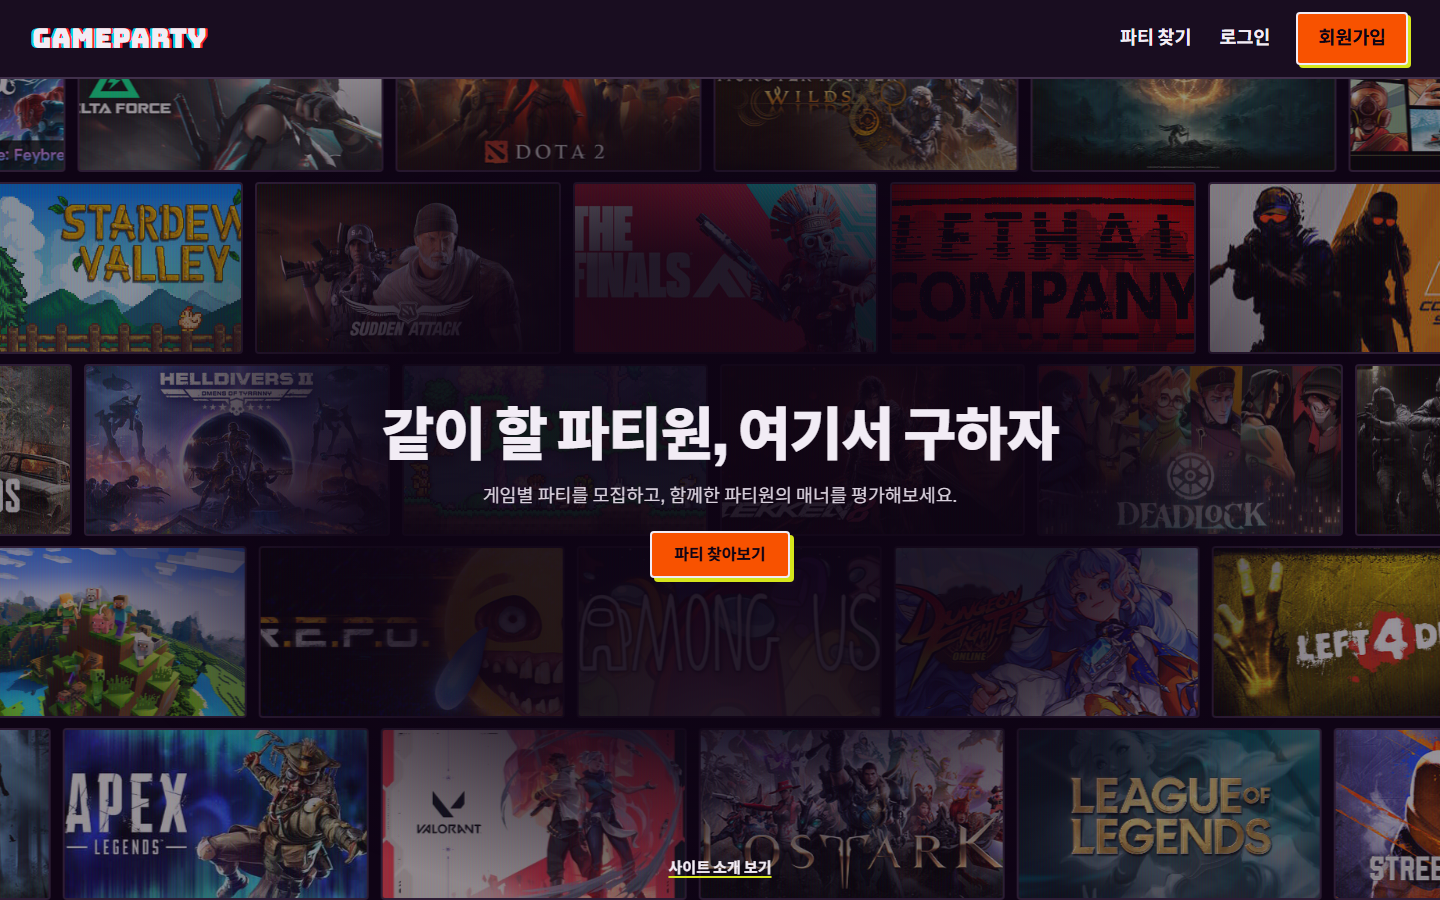
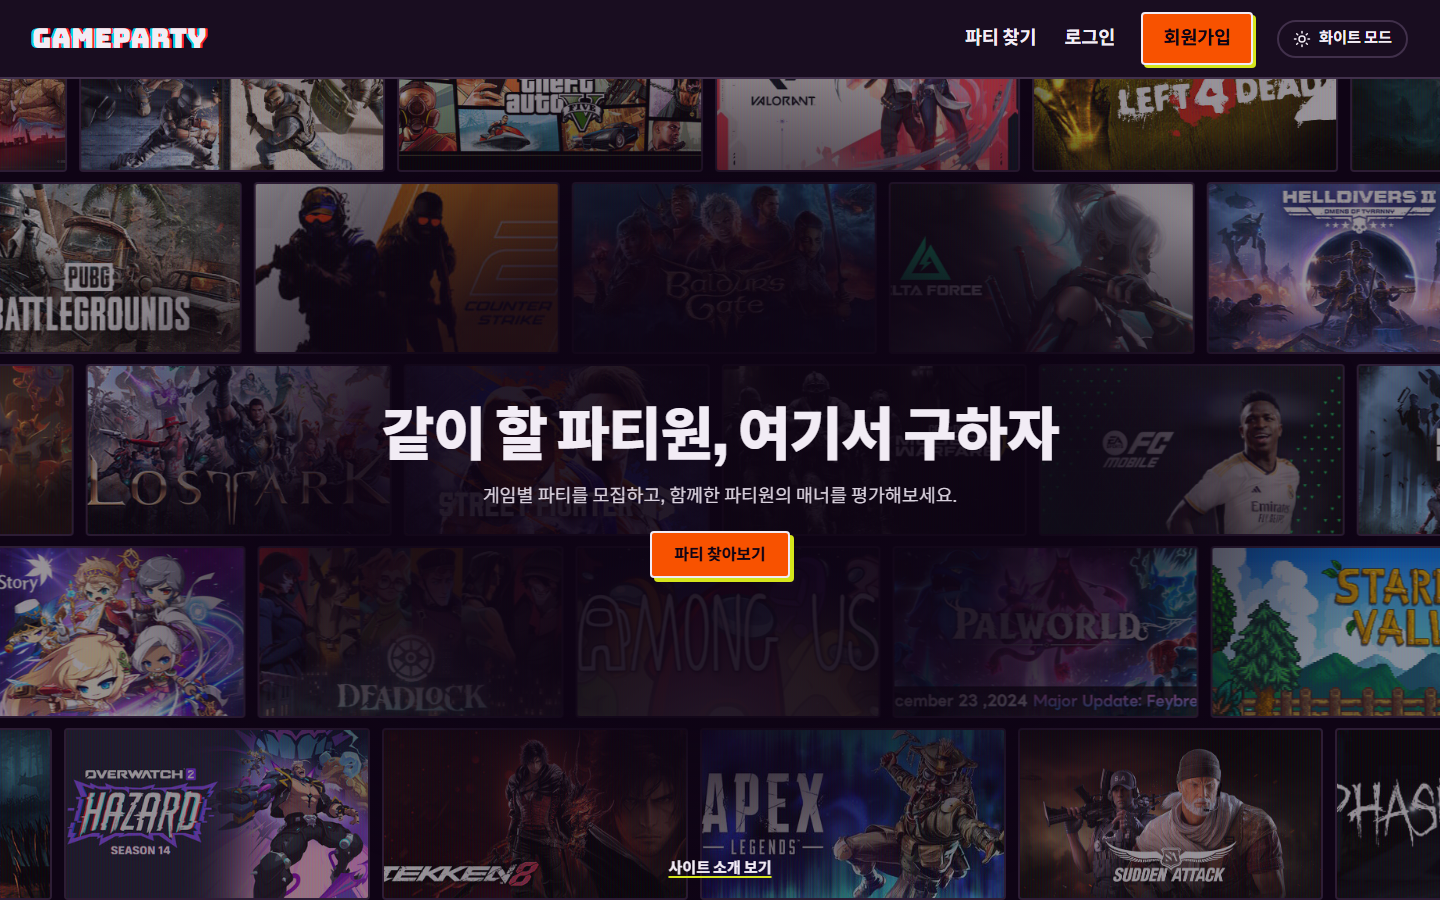
보고서 자료 갱신: 알림·정렬·탈퇴·화이트 모드 반영
- ER 다이어그램에 party_member 알림 컬럼(decided_at, result_seen) 추가
- 구조도와 실행 흐름도에 알림, 정렬, 탈퇴 반영 후 다시 생성
- 화면 캡처를 새 화면으로 다시 촬영하고 신규 5장(정렬, 새 소식 2종, 탈퇴, 404)과
  화이트 모드 대표 화면 추가
- 캡처 스크립트에 새 화면과 임시 계정 정리 단계 추가, README 사용법 보완
- report-materials.html에 새 기능 설명과 화면 추가

diff --git a/docs/report/report-materials.html b/docs/report/report-materials.html
@@ -54,7 +54,7 @@
     <span class="tag">보고서 자료</span>
     <h1>GameParty</h1>
     <p class="sub">게임 파티 모집 · 참가 신청 · 매너 리뷰 게시판 &nbsp;|&nbsp; Spring Boot + JPA + MySQL</p>
-    <p class="sub">이 문서는 보고서에 넣을 ER 다이어그램, 시스템 구조도, 실행 흐름도, 대표 화면을 모아 둔 자료입니다.</p>
+    <p class="sub">이 문서는 보고서에 넣을 ER 다이어그램, 시스템 구조도, 실행 흐름도, 대표 화면(다크/화이트 모드)을 모아 둔 자료입니다.</p>
   </div>
 
   <h2>1. 프로젝트 개요</h2>
@@ -66,12 +66,13 @@
 
   <h3>주요 기능</h3>
   <ul>
-    <li><b>회원</b> : 회원가입(아이디·닉네임 중복 검사, 주 게임 선택), 로그인/로그아웃, 마이페이지, 내 정보 수정(닉네임·주 게임·비밀번호 변경)</li>
-    <li><b>파티</b> : 파티 만들기·수정·삭제, 게임별 필터와 제목 검색, 12개씩 페이지, 상세 화면 옆에서 다른 파티 둘러보기</li>
+    <li><b>회원</b> : 회원가입(아이디·닉네임 중복 검사), 로그인/로그아웃, 마이페이지, 내 정보 수정(닉네임·주 게임·비밀번호 변경), <b>회원 탈퇴</b>(비밀번호 재확인 후 만든 파티·참가 내역·리뷰 함께 삭제, 상대 매너 점수 재계산)</li>
+    <li><b>파티</b> : 파티 만들기·수정·삭제, 게임별 필터와 제목 검색, <b>모집중만 보기</b>, <b>정렬</b>(최신순·자리 많은 순·마감 임박순), 12개씩 페이지, 상세 화면 옆에서 다른 파티 둘러보기</li>
     <li><b>참가 신청</b> : 신청 → 방장 승인/거절, 신청 취소, 정원이 차면 자동 ‘인원마감’(동시 처리는 비관적 락으로 보호)</li>
+    <li><b>알림</b> : 방장이 승인·거절하면 신청자에게, 새 신청이 오면 방장에게 헤더의 숫자 배지와 마이페이지 ‘새 소식’으로 알려 준다. 별도 알림 테이블 없이 참가 신청 내역에서 계산한다.</li>
     <li><b>매너 리뷰</b> : 파티 종료 후 참가자끼리 별점(1~5)과 한줄평, 같은 사람에게 1회, 받은 리뷰의 평균이 매너 점수로 표시</li>
     <li><b>관리자</b> : 대시보드 통계, 회원 관리(조회·정보 수정·권한 부여·삭제), 파티 관리(상태별 보기·강제 종료·삭제), 리뷰 관리(삭제 시 매너 점수 재계산)</li>
-    <li><b>편의</b> : 게임 선택 칸(3×3 · 드래그 · 이름/장르/초성 검색), 사이트 디자인의 확인창, 시연용 더미 데이터</li>
+    <li><b>편의</b> : 게임 선택 칸(3×3 · 드래그 · 이름/장르/초성 검색), 사이트 디자인의 확인창, <b>다크/화이트 모드 전환</b>, 오류 화면(403·404·500), 시연용 더미 데이터</li>
   </ul>
 
   <h3>실행 방법</h3>
@@ -98,7 +99,7 @@
     <tr><td><code>member</code> 회원</td><td>로그인 계정과 프로필. 권한(<code>USER</code>/<code>ADMIN</code>), 주 게임, 받은 리뷰로 계산되는 매너 점수·평가 수를 가진다.</td><td>아이디 유니크, 닉네임 유니크</td></tr>
     <tr><td><code>game</code> 게임</td><td>모집 대상 게임 목록. 서버 시작 시 39종이 등록되고, 이미지 파일 이름(<code>slug</code>)을 가진다.</td><td>이름 유니크</td></tr>
     <tr><td><code>party</code> 파티</td><td>모집글. 게임과 방장(회원)을 참조하고, 최대 인원, 연락 링크, 상태(<code>RECRUITING</code>/<code>FULL</code>/<code>CLOSED</code>)를 가진다.</td><td>game_id, host_id 외래키</td></tr>
-    <tr><td><code>party_member</code> 참가 신청</td><td>회원과 파티의 N:M 관계를 푼 연결 테이블. 신청 상태(<code>PENDING</code>/<code>APPROVED</code>/<code>REJECTED</code>)와 신청 시각을 가진다. 방장도 ‘참가 중’으로 함께 등록된다.</td><td>(party_id, member_id) 복합 유니크</td></tr>
+    <tr><td><code>party_member</code> 참가 신청</td><td>회원과 파티의 N:M 관계를 푼 연결 테이블. 신청 상태(<code>PENDING</code>/<code>APPROVED</code>/<code>REJECTED</code>), 신청 시각, 방장의 처리 시각(<code>decided_at</code>)과 신청자의 결과 확인 여부(<code>result_seen</code>, 알림용)를 가진다. 방장도 ‘참가 중’으로 함께 등록된다(알림 없음).</td><td>(party_id, member_id) 복합 유니크</td></tr>
     <tr><td><code>party_review</code> 매너 리뷰</td><td>종료된 파티에서 참가자끼리 남기는 별점(1~5)과 한줄평. 작성자와 받는 사람은 모두 회원을 참조한다.</td><td>(party_id, reviewer_id, target_id) 복합 유니크</td></tr>
   </table>
 
@@ -108,6 +109,9 @@
     <li>승인은 정원에 여유가 있을 때만 가능하며, 승인 인원이 정원이 되면 파티가 자동으로 <b>인원마감</b>이 된다. 참가 취소·정원 변경으로 자리가 나면 다시 <b>모집중</b>이 된다.</li>
     <li>리뷰는 <b>종료된</b> 파티에서, <b>승인된 참가자끼리</b>, 자기 자신을 제외하고, 같은 파티·같은 사람에게 한 번만 남길 수 있다.</li>
     <li>리뷰를 남기면 받은 사람의 매너 점수(평균, 소수 첫째 자리)가 갱신되고, 리뷰·파티·회원이 삭제되면 남은 리뷰로 다시 계산한다.</li>
+    <li>방장이 승인·거절하면 <code>decided_at</code>이 기록되고 <code>result_seen</code>이 거짓으로 시작해 신청자의 ‘새 소식’에 나온다. ‘모두 읽음’을 누르면 참이 된다. 방장의 ‘새 신청’은 처리 전(<code>PENDING</code>)인 신청에서 바로 계산하므로 처리하면 사라진다.</li>
+    <li>파티 찾기 정렬은 모집 중인 파티를 먼저 보여 주고, ‘자리 많은 순’은 남은 자리(정원 − 승인 인원)가 많은 순, ‘마감 임박순’은 적은 순으로 정한다. 같으면 최신순이다.</li>
+    <li>회원 탈퇴는 비밀번호를 한 번 더 확인하고, 관리자 계정은 탈퇴할 수 없다. 탈퇴하면 만든 파티, 참가 내역, 받은·남긴 리뷰가 함께 삭제되고 상대방의 매너 점수는 남은 리뷰로 다시 계산한다.</li>
     <li>관리자 기능(<code>/admin/**</code>)은 <code>ADMIN</code> 권한만 접근하며, 일반 회원은 403 으로 차단된다. 자기 자신과 마지막 관리자는 권한 변경·삭제할 수 없다.</li>
   </ul>
 </section>
@@ -147,12 +151,17 @@
     <div class="shot"><h3>5-2. 로그인</h3><p>Spring Security 폼 로그인.</p><img src="screenshots/02-login.png" alt="로그인"></div>
     <div class="shot"><h3>5-3. 회원가입</h3><p>아이디·비밀번호·닉네임과 주 게임(3×3 선택 칸, 드래그·검색)을 입력한다.</p><img src="screenshots/03-signup.png" alt="회원가입"></div>
     <div class="shot"><h3>5-4. 파티 찾기</h3><p>왼쪽 게임 목록으로 필터하고, 제목으로 검색한다. 한 페이지에 12개.</p><img src="screenshots/04-parties.png" alt="파티 찾기"></div>
+    <div class="shot"><h3>5-4-1. 모집중만 보기 · 정렬</h3><p>‘모집중만 보기’를 켜고 ‘마감 임박순’으로 정렬한 화면. 남은 자리가 적은 파티부터 보이며, 바꾸면 바로 다시 불러온다.</p><img src="screenshots/17-parties-filter.png" alt="모집중만 보기와 정렬"></div>
     <div class="shot"><h3>5-5. 파티 만들기</h3><p>게임 선택 칸(3×3, 드래그, 이름·장르·초성 검색)과 제목·인원·연락 링크를 입력한다.</p><img src="screenshots/05-party-create.png" alt="파티 만들기"></div>
     <div class="shot"><h3>5-6. 참가 신청 (참가자 화면)</h3><p>모집중 파티에서 참가 신청을 하고, 오른쪽에서 다른 파티를 둘러볼 수 있다.</p><img src="screenshots/10-party-apply.png" alt="참가 신청"></div>
     <div class="shot"><h3>5-7. 신청 승인 · 거절 (방장 화면)</h3><p>방장은 신청 대기 목록에서 승인 또는 거절한다. 정원이 차면 자동으로 인원마감이 된다.</p><img src="screenshots/09-party-host.png" alt="방장 화면"></div>
     <div class="shot"><h3>5-8. 종료된 파티와 매너 리뷰</h3><p>종료된 파티에서 참가자끼리 별점과 한줄평을 남기고, 리뷰 목록이 보인다.</p><img src="screenshots/06-party-review.png" alt="매너 리뷰"></div>
     <div class="shot"><h3>5-9. 마이페이지</h3><p>내가 만든 파티, 신청 현황, 받은 리뷰와 매너 점수를 모아 본다.</p><img src="screenshots/07-mypage.png" alt="마이페이지"></div>
+    <div class="shot"><h3>5-9-1. 새 소식 (방장)</h3><p>내 파티에 새 신청이 들어오면 헤더에 숫자 배지가 뜨고, 마이페이지 ‘새 소식’에 신청자와 파티가 나온다. 승인·거절로 처리하면 사라진다.</p><img src="screenshots/18-mypage-news-host.png" alt="새 소식 방장 화면"></div>
+    <div class="shot"><h3>5-9-2. 새 소식 (신청자)</h3><p>방장이 승인·거절하면 신청자에게 결과가 알림으로 온다. ‘결과 알림 모두 읽음’을 누르면 배지가 사라진다.</p><img src="screenshots/19-mypage-news-applicant.png" alt="새 소식 신청자 화면"></div>
     <div class="shot"><h3>5-10. 내 정보 수정</h3><p>닉네임, 주 게임, 비밀번호(현재 비밀번호 확인 후)를 바꾼다.</p><img src="screenshots/08-mypage-edit.png" alt="내 정보 수정"></div>
+    <div class="shot"><h3>5-11. 회원 탈퇴</h3><p>탈퇴하면 무엇이 함께 지워지는지 개수와 함께 알려 주고, 비밀번호를 한 번 더 확인한다.</p><img src="screenshots/20-mypage-withdraw.png" alt="회원 탈퇴"></div>
+    <div class="shot"><h3>5-12. 오류 화면</h3><p>없는 주소(404)는 사이트 디자인의 오류 화면으로 안내한다. 403(권한 없음), 5xx(서버 오류)도 같은 형식이다.</p><img src="screenshots/21-error-404.png" alt="404 오류 화면"></div>
   </div>
 </section>
 
@@ -165,6 +174,17 @@
     <div class="shot"><h3>6-4. 파티 관리</h3><p>전체·모집중·인원마감·종료 버튼으로 상태별 보기, 강제 종료, 삭제.</p><img src="screenshots/14-admin-parties.png" alt="파티 관리"></div>
     <div class="shot"><h3>6-5. 리뷰 관리</h3><p>모든 리뷰를 보고 삭제한다. 삭제하면 받은 사람의 매너 점수를 다시 계산한다.</p><img src="screenshots/15-admin-reviews.png" alt="리뷰 관리"></div>
     <div class="shot"><h3>6-6. 확인창</h3><p>되돌릴 수 없는 작업 전에 사이트 디자인의 확인창을 띄운다.</p><img src="screenshots/16-confirm-dialog.png" alt="확인창"></div>
+  </div>
+</section>
+
+<section class="tall">
+  <h2>7. 화이트 모드</h2>
+  <p class="sub">헤더 오른쪽 위 버튼으로 다크/화이트 모드를 바꾼다. 선택은 브라우저에 저장되며, 색 대비(글자 4.5:1 이상)를 모든 화면에서 점검했다.</p>
+  <div class="shots">
+    <div class="shot"><h3>7-1. 메인 화면 (화이트)</h3><img src="screenshots/light/01-main.png" alt="메인 화면 화이트 모드"></div>
+    <div class="shot"><h3>7-2. 파티 찾기 (화이트)</h3><img src="screenshots/light/17-parties-filter.png" alt="파티 찾기 화이트 모드"></div>
+    <div class="shot"><h3>7-3. 마이페이지 (화이트)</h3><img src="screenshots/light/07-mypage.png" alt="마이페이지 화이트 모드"></div>
+    <div class="shot"><h3>7-4. 관리자 대시보드 (화이트)</h3><img src="screenshots/light/11-admin-dashboard.png" alt="관리자 대시보드 화이트 모드"></div>
   </div>
 </section>
 

diff --git a/docs/report/tools/make_diagrams.py b/docs/report/tools/make_diagrams.py
@@ -89,7 +89,7 @@ def tag(x, y, s):
 
 # ---------------------------------------------------------------- ER 다이어그램
 def er():
-    W, H = 1240, 900
+    W, H = 1240, 960
     s = svg_open(W, H, "GameParty ER 다이어그램")
     s += text(40, 36, "GameParty ER 다이어그램", 22, "bold")
     s += text(40, 58, "JPA 엔티티 5개 · MySQL 테이블 기준", 13, "normal", MUTED)
@@ -122,6 +122,7 @@ def er():
         "party_member": dict(x=470, y=470, w=330, color="#2563eb", ko="참가 신청", rows=[
             ("PK", "id", "BIGINT"), ("FK", "party_id", "BIGINT → party"), ("FK", "member_id", "BIGINT → member"),
             ("", "status", "PENDING / APPROVED / REJECTED"), ("", "applied_at", "DATETIME"),
+            ("", "decided_at", "DATETIME · 승인/거절 시각"), ("", "result_seen", "BOOLEAN · 결과 확인 여부"),
             ("UK", "(party_id, member_id)", "복합 유니크")]),
         "party_review": dict(x=880, y=470, w=340, color="#db2777", ko="매너 리뷰", rows=[
             ("PK", "id", "BIGINT"), ("FK", "party_id", "BIGINT → party"), ("FK", "reviewer_id", "BIGINT → member"),
@@ -147,9 +148,9 @@ def er():
     ya, yb = anchor_y(P, 7), anchor_y(PR, 1)
     rel += poly([(800, ya), (840, ya), (840, yb), (880, yb)], arrow_end=False)
     # 6) member 1 : N party_review (작성자)
-    rel += poly([(180, 40 + HH + RH * 9), (180, 760), (1000, 760), (1000, 470 + HH + RH * 8)], arrow_end=False)
+    rel += poly([(180, 40 + HH + RH * 9), (180, 820), (1000, 820), (1000, 470 + HH + RH * 8)], arrow_end=False)
     # 7) member 1 : N party_review (받는 사람)
-    rel += poly([(120, 40 + HH + RH * 9), (120, 800), (1100, 800), (1100, 470 + HH + RH * 8)], arrow_end=False)
+    rel += poly([(120, 40 + HH + RH * 9), (120, 860), (1100, 860), (1100, 470 + HH + RH * 8)], arrow_end=False)
     s += rel
 
     # 표
@@ -179,14 +180,14 @@ def er():
     s += tag(648, 330, "1") + tag(648, 462, "N") + label(635, 400, "참가 신청", 12)
     s += tag(262, 330, "1") + tag(452, 565, "N") + label(250, 450, "신청자", 12)
     s += tag(812, 265, "1") + tag(868, 539, "N") + label(840, 410, "파티 리뷰", 12)
-    s += tag(194, 330, "1") + tag(1013, 735, "N") + label(590, 754, "리뷰 작성자 (reviewer)", 12)
-    s += tag(134, 330, "1") + tag(1113, 735, "N") + label(590, 794, "리뷰 받는 사람 (target)", 12)
+    s += tag(194, 330, "1") + tag(1013, 735, "N") + label(590, 814, "리뷰 작성자 (reviewer)", 12)
+    s += tag(134, 330, "1") + tag(1113, 735, "N") + label(590, 854, "리뷰 받는 사람 (target)", 12)
 
     # 참고
-    s += '<g transform="translate(470,680)">\n'
+    s += '<g transform="translate(470,730)">\n'
     s += rbox(0, 0, 330, 56, "#f8fafc", BORDER, 1.2, 8)
     s += text(12, 22, "party_member : member 와 party 의 N:M 을 푼 연결 테이블", 11, "normal", MUTED)
-    s += text(12, 42, "방장도 '참가 중'으로 함께 등록 (리뷰 대상에 포함)", 11, "normal", MUTED)
+    s += text(12, 42, "방장도 '참가 중'으로 함께 등록 (리뷰 대상에 포함, 알림 없음)", 11, "normal", MUTED)
     s += '</g>\n</g>\n</svg>\n'
     return s
 
@@ -224,14 +225,14 @@ def arch():
 
     L = [
         (80, 84, "#475569", "사용자 브라우저", "HTML · CSS · JS",
-         ["메인", "로그인 · 회원가입", "파티 찾기 · 상세 · 만들기", "마이페이지 · 내 정보 수정", "관리자 페이지", "확인창 · 게임 선택(드래그/검색)"]),
+         ["메인", "로그인 · 회원가입", "파티 찾기 · 상세 · 만들기", "마이페이지 · 새 소식 · 정보 수정 · 탈퇴", "관리자 페이지", "확인창 · 게임 선택 · 화이트 모드"]),
         (200, 84, "#b45309", "보안 계층", "Spring Security",
          ["폼 로그인 (세션)", "BCrypt 비밀번호", "CSRF 토큰", "ROLE_USER / ROLE_ADMIN", "/admin/** = ADMIN만"]),
         (320, 112, "#7c3aed", "Controller", "Spring MVC",
-         ["HomeController", "MemberController", "PartyController", "MyPageController", "AdminController"]),
+         ["HomeController", "MemberController", "PartyController", "MyPageController", "AdminController", "NotificationAdvice"]),
         (468, 126, "#2563eb", "Service", "비즈니스 로직 · 트랜잭션",
          ["MemberService", "PartyService", "ParticipationService", "ReviewService", "MyPageService", "AdminService",
-          "MemberEditValidator"]),
+          "NotificationService", "WithdrawalService", "MemberEditValidator"]),
         (630, 112, "#0d9488", "Repository · Entity", "Spring Data JPA · Hibernate",
          ["MemberRepository", "GameRepository", "PartyRepository", "PartyMemberRepository", "PartyReviewRepository",
           "Entity 5개 + enum 3개"]),
@@ -273,6 +274,7 @@ def arch():
         "• 승인 인원에 따라 모집중↔인원마감 전환",
         "• 종료된 파티에서만 참가자끼리 1회 리뷰",
         "• 리뷰·회원·파티 삭제 시 점수 재계산",
+        "• 알림은 신청 내역에서 계산 (테이블 없음)",
         "• 공용 검증기로 수정 규칙 통일",
         "• 규칙은 서버에서 검증",
         "• 관리자 비밀번호는 Git 제외 파일에 보관"], "#0d9488")
@@ -299,9 +301,9 @@ def flow():
         (1, "A", 120, "1", "회원가입", "/signup · 아이디 · 비밀번호 · 닉네임", "주 게임 선택(드래그/검색) · BCrypt 저장"),
         (2, "A", 225, "2", "로그인", "/login · Spring Security 세션", "관리자는 ADMIN 권한으로 로그인"),
         (3, "B", 330, "3", "파티 만들기", "/parties/new · 게임 · 제목 · 인원", "방장은 '참가 중'으로 자동 등록"),
-        (4, "A", 435, "4", "파티 찾기", "/parties · 게임별 필터 · 제목 검색", "12개씩 페이지 · 상세에서 다른 파티도 탐색"),
-        (5, "A", 540, "5", "참가 신청", "모집중 파티에만 · 상태 '승인 대기'", "중복 신청 · 내 파티 신청 불가"),
-        (6, "B", 645, "6", "신청 승인 / 거절", "정원이 차면 자동 '인원마감'", "정원 동시 변경은 비관적 락으로 보호"),
+        (4, "A", 435, "4", "파티 찾기", "/parties · 게임 · 제목 · 모집중만 보기", "정렬(최신/자리/마감 임박) · 12개씩 페이지"),
+        (5, "A", 540, "5", "참가 신청", "모집중 파티에만 · 상태 '승인 대기'", "방장에게 '새 소식' 알림 · 중복 신청 불가"),
+        (6, "B", 645, "6", "신청 승인 / 거절", "신청자에게 '새 소식'(승인/거절) 알림", "정원이 차면 자동 마감 · 비관적 락 보호"),
         (7, "B", 750, "7", "파티 종료", "수정 · 삭제 · 신청 처리 잠금", "참가자끼리 리뷰 작성 가능해짐"),
         (8, "A", 855, "8", "매너 리뷰 작성", "별점 1~5 + 한줄평 · 본인 제외", "같은 파티 · 같은 사람에게 1회"),
         (9, "C", 960, "9", "매너 점수 갱신", "받은 리뷰 평균(소수 1자리)", "목록 · 상세 · 마이페이지에 표시"),
@@ -347,7 +349,7 @@ def flow():
     s += poly([(cx["C"], 330 + BH), (cx["C"], 435)])
     # 관리자 삭제 -> 점수 재계산 (점선)
     s += poly([(cx["C"] + 100, 435 + BH), (cx["C"] + 100, 960)], color="#dc2626", dashed=True, marker="arrD")
-    s += label(cx["C"] + 100, 700, "삭제 시 점수 재계산", 12, "middle", "#dc2626")
+    s += label(cx["C"] + 100, 700, "삭제·탈퇴 시 점수 재계산", 12, "middle", "#dc2626")
     # 로그인 -> 관리자 로그인 (참고선)
     s += poly([(340, 266), (780, 266)], color="#94a3b8", dashed=True)
     s += label(560, 258, "관리자 계정으로 로그인", 11, "middle", MUTED)

diff --git a/docs/report/README.md b/docs/report/README.md
@@ -4,14 +4,14 @@
 
 | 파일 | 내용 |
 | --- | --- |
-| `GameParty-report-materials.pdf` | 아래 자료를 한 문서로 묶은 PDF (22쪽) |
-| `GameParty-report-draft.pdf` | 보고서 초안 PDF (문서 \"GameParty 텀프로젝트 보고서 (초안)\"을 내보낸 것, 25쪽) |
+| `GameParty-report-materials.pdf` | 아래 자료를 한 문서로 묶은 PDF (30쪽) |
+| `GameParty-report-draft.pdf` | 보고서 초안 PDF (문서 \"GameParty 텀프로젝트 보고서 (초안)\"을 내보낸 것, 36쪽) |
 | `report-materials.html` | 위 PDF의 원본 페이지 (브라우저에서 열어 `Ctrl+P` 로 다시 PDF 로 저장 가능) |
-| `diagrams/er-diagram.svg` | ER 다이어그램 (엔티티 5개) |
+| `diagrams/er-diagram.svg` | ER 다이어그램 (엔티티 5개, 참가 신청에 알림용 컬럼 포함) |
 | `diagrams/system-architecture.svg` | 시스템 구조도 (계층 구조) |
 | `diagrams/execution-flow.svg` | 실행 흐름도 (회원가입 ~ 리뷰, 관리자 흐름 포함) |
 | `diagrams/status-transitions.svg` | 파티 상태 · 참가 신청 상태 전이도 |
-| `screenshots/*.png` | 대표 화면 16장 (1440px 폭) |
+| `screenshots/*.png` | 대표 화면 21장 + 화이트 모드 일부 (1440px 폭) |
 | `tools/make_diagrams.py` | 다이어그램(SVG) 생성 스크립트 |
 | `tools/capture.ps1` | 스크린샷 자동 촬영 스크립트 (Chrome DevTools 사용) |
 
